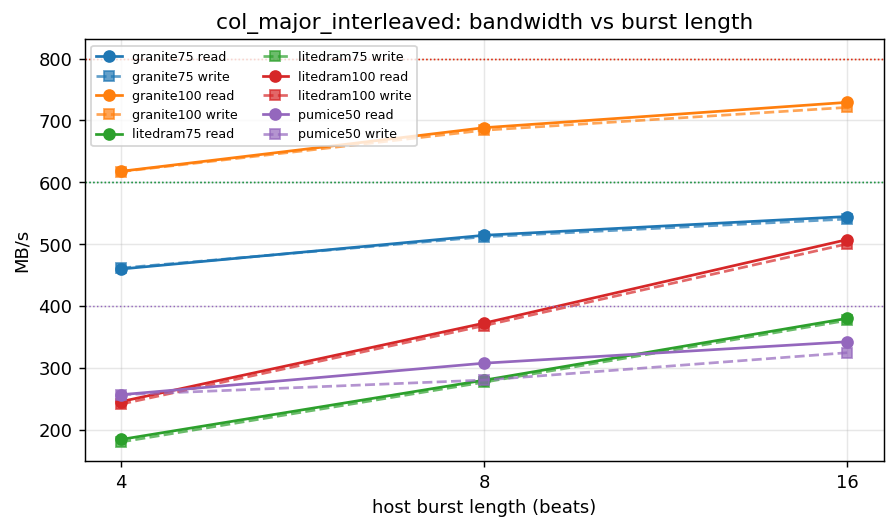
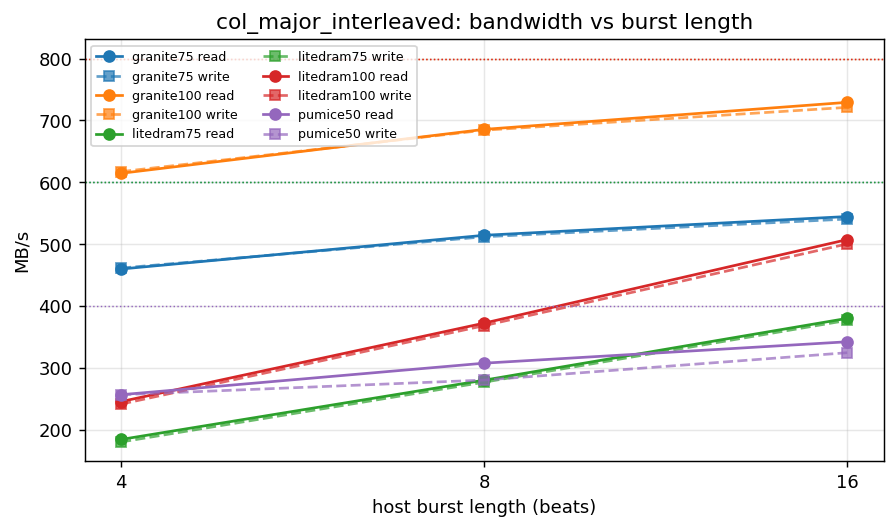
data(granite): 100 MHz board sweep with AR direct placement and the DFI command fall-through; floor 25 -> 23
ard2_100 bitstream (41bb5e07e; AltSpreadLogic_medium + post-route phys_opt,
WNS +0.006 / WHS +0.008 after five directives missed on the pre-existing
stale-pick and pick -> pop paths), every profile: 180 cells, 0 failed, 0
mismatched; floor 25 -> 23 (160 cells exactly -2), loaded means median -1.0,
bandwidth +0.03 / +0.17 percent mean, open-page half_pair reads +6 percent,
LiteDRAM tally 42 / 18 / 0 unchanged.

Sweep report: summary latency table on ard2_100, the stage table across the
three builds, and the mechanism behind the two bimodal cells (the refresh
phase picks the write/read run length; watermark 4/2 held the good state on
8 of 8 board runs where 2/1 lost it on 4 of 8). Graphs regenerated with
granite100 = ard2_100. TASK-003 log entry.

diff --git a/projects/fpga-systems/NexysA7/mem-ctrl-ip-ddr2/ddr2-characterization/char_results/sweep_granite_vs_litedram_2026-10-29.md b/projects/fpga-systems/NexysA7/mem-ctrl-ip-ddr2/ddr2-characterization/char_results/sweep_granite_vs_litedram_2026-10-29.md
@@ -14,7 +14,7 @@ idle gap: one bank or one stream at a time, where the DRAM's own timing or
 the gap sets the ceiling for both. Incremental is a narrow win (2-3
 percent). The large wins are the patterns that need more than one bank
 busy at a time. LiteDRAM is about 3.5x smaller and has the
-lower unloaded read latency (18 cycles against 25).
+lower unloaded read latency (18 cycles against 23).
 
 | cell (write / read MB/s) | granite 100 | LiteDRAM 100 | granite 75 | LiteDRAM 75 | pumice 50 |
 |---|---|---|---|---|---|
@@ -30,7 +30,7 @@ lower unloaded read latency (18 cycles against 25).
 | concurrent 1 writer + 1 reader, incremental | 368 / 368 | 167 / 167 | 285 / 285 | 124 / 124 | 185 / 185 |
 
 Sources: granite 100 = `hx100` 2026-10-31, power-on (`defaults`; the
-`byp100` rebuild the same evening reads the same on every cell above); LiteDRAM
+`byp100` and `ard2_100` rebuilds the same evening read the same on every cell above); LiteDRAM
 100 = `hx100` 2026-10-31; granite 75 = `sweep75` 2026-10-29 `open_page`
 (the design as of that day: before the hybrid, fast read release and the
 drain-arm fix); LiteDRAM 75 = `sweep75` 2026-10-29; pumice 50 = `sweep`
@@ -42,19 +42,20 @@ lose, the six losses all `col_major`. That design has not been re-swept at 75.
 
 | cell | granite mean / min / max | LiteDRAM mean / min / max |
 |---|---|---|
-| half_pair, 1 thread (unloaded) | 29.7 / 25 / 51 | 18.7 / 18 / 48 |
-| half_pair, 8 threads | 41.9 / 27 / 70 | 26.8 / 21 / 62 |
-| incremental, 8-beat | 46.6 / 25 / 74 | 33.9 / 32 / 62 |
-| col_major_interleaved, 8-beat | 51.0 / 25 / 76 | 64.5 / 22 / 87 |
-| random window, 4 threads | 52.4 / 25 / 85 | 61.4 / 22 / 91 |
+| half_pair, 1 thread (unloaded) | 29.5 / 23 / 44 | 18.7 / 18 / 48 |
+| half_pair, 8 threads | 40.7 / 25 / 69 | 26.8 / 21 / 62 |
+| incremental, 8-beat | 45.6 / 23 / 73 | 33.9 / 32 / 62 |
+| col_major_interleaved, 8-beat | 50.2 / 23 / 77 | 64.5 / 22 / 87 |
+| random window, 4 threads | 51.4 / 23 / 84 | 61.4 / 22 / 91 |
 
-granite = `byp100` (store head bypass and return fall-through, 4f0603044):
-the floor came down 27 -> 25 on every pattern. The random window's sweep
-run read a minimum of 41; two reruns read 25. Only a read that finds the
-controller idle sees the floor, so the loaded means barely move (median
--0.4 cycles over 183 cells; half_pair 8 threads 44.9 -> 41.9).
+granite = `ard2_100` (41bb5e07e: on top of the store head bypass and the
+return fall-through, the store's AR direct placement and the DFI command
+fall-through): the floor came down 27 -> 25 -> 23 over the two rebuilds.
+Only a read that finds the controller idle sees the floor, so the loaded
+means move about a cycle (median -1.0 over 180 cells against `byp100`;
+half_pair 8 threads 44.9 -> 41.9 -> 40.7).
 
-granite's floor is 7 cycles above LiteDRAM's (9 before the bypasses). Its mean is higher on the
+granite's floor is 5 cycles above LiteDRAM's (9 before the four cuts). Its mean is higher on the
 sequential patterns too (46.6 against 33.9 on incremental, at the same
 bandwidth). At 8 threads it is higher while it moves 4x the data. It is lower
 where the pattern needs bank parallelism. The mixed window has no latency figure, because that measurement never
@@ -85,7 +86,7 @@ characterization engines, the UART bridge or the debug RAMs):
   - Of the core's block RAMs, 9 are the CPU's, 8 the BIOS ROM and 2 its SRAM. That leaves 3 RAMB36 at most for the controller and the glue.
 - **pumice:** the checkpoint predates fast read release (the RTL default since 2026-10-31).
 
-**Open items** (TASK-003 log): granite's 7-cycle unloaded latency gap
+**Open items** (TASK-003 log): granite's 5-cycle unloaded latency gap
 (where it goes: the section "Where the read floor goes" below); a pumice rebuild and sweep to
 confirm fast read release and give pumice exact latency; latency for the
 mixed window.
@@ -93,6 +94,67 @@ mixed window.
 ---
 
 # Appendix: the running log
+
+## Two more cycles: AR direct placement and the DFI command fall-through (2026-10-31, night)
+
+Two more granite-only parameters, both on by default (41bb5e07e):
+
+- the store's `AR_DIRECT`: an AR that finds the hold register empty is placed straight into its bank queue instead of waiting a cycle in the hold. That is the "push -> visible" row, 3 -> 2.
+- the DFI plane's `CMD_FALLTHRU` (same-clock form of `mc_dfi_cdc` only): a command that finds the command FIFO empty skips it. That is the "command -> RD at the pins" row, 4 -> 3.
+
+Sim: AR -> first R 16 -> 14 cycles on the char proxy, lone-read bandwidth
+166.7 -> 179.5 MB/s; proxy families 0 mismatches, 0 timing violations.
+
+Timing at 100 MHz was the hard part. Five placement directives missed by
+-0.144 to -0.393 ns, every time on paths that were already marginal and that
+the change does not touch (the scheduler's stale-pick logic in
+`mc_bank_pick`, and the pick -> store pop). AltSpreadLogic_medium plus a
+post-route `phys_opt_design` (AggressiveFanoutOpt, then
+AlternateFlowWithRetiming) closed it: `ddr2_char_granite_100mhz_ard2_2026-10-31.bit`,
+WNS +0.006 / WHS +0.008. The next added gate on those paths will likely need a
+pipeline stage in the stale pick rather than a luckier placement.
+
+Board, every profile, `char_granite_ard2_100_<profile>_2026-10-31.csv`:
+180 cells, 0 failed, 0 mismatched. Against `byp100`:
+
+- **Floor 25 -> 23.** 160 of 180 cells drop exactly 2 cycles in their minimum. The other 20 are cells whose minimum is a rare event (the one read that found the controller idle), and they move either way.
+- **Mean latency** -1.0 cycle median.
+- **Bandwidth.** Write +0.03 percent mean and read +0.17 percent mean. No cell is worse than -1.3 percent.
+- **Open-page half_pair reads.** These rise 6 percent (367 -> 390 MB/s), now level with power-on. A lone reader is latency-bound, and two cycles off each read shows directly.
+- **`half_pair_gap2`, open page:** the bandwidth is the same, and the mean latency rose 68 -> 80. At gap 2 the reads queue behind the writes, so that mean measures the queue and not the controller's floor.
+- **LiteDRAM tally.** 42 win / 18 tie / 0 lose, the same as before.
+
+| stage | first build | `byp100` | `ard2_100` |
+|---|---|---|---|
+| AXI plane: AR -> pushed into the bank queue store | 2 | 2 | 2 |
+| store: push -> visible to the scheduler's pick | 4 | 3 | 2 |
+| pick + fire, command -> RD at the DFI pins | 4 | 4 | 3 |
+| harness `cmd_delay` + `t_rddata_en` (board only) | 2 | 2 | 2 |
+| PHY: read enable -> data valid (shared with LiteDRAM) | 8 | 8 | 8 |
+| return -> R | 2 | 1 | 1 |
+| measured board floor (rd_lat_min) | 27 | 25 | 23 |
+
+## What selects the two mixed-window and multigen states (2026-10-31, night)
+
+The two cells that land in one of two values from run to run (the mixed
+window, 202.4 or 196.7, and multigen power-on col_major_interleaved, 261.9 or
+245.8) are one mechanism: the **refresh phase** sets how finely the
+scheduler alternates write and read runs once both queues are busy.
+
+- **Sim.** On the char proxy, sweeping tREFI 760-780 in steps of 2 moves the mixed window between states. The DRAM command trace at tREFI 772 (bad) against 774 (normal):
+  - bad: runs of 8 commands, 2,043 direction switches, 3,128 ACTs, 140.8 MB/s;
+  - normal: runs of 16, 1,037 switches, 2,111 ACTs, 197 MB/s.
+
+  The refresh phase alone picks the run length, and the state then persists for the whole window: twice the direction switches and half again the ACTs. Nothing else differs between the two runs.
+- **The fix in sim.** A write watermark of 4/2 (8/4 and 4/0 behave the same) removes the bad state at every phase tried. It is never worse than 2/1, and at tREFI 780 it is better (204.7 against 196.8).
+- **Board**, `byp100` bitstream, four alternating runs each:
+
+| cell (read MB/s) | watermark 2/1 (power-on) | watermark 4/2 |
+|---|---|---|
+| mixed window | 202.5, 202.5, 196.7, 202.5 | 202.5 x4 |
+| multigen col_major_interleaved | 245.8, 245.8, 245.8, 261.9 | 261.9 x4 |
+
+  A single A/B pass of windows, concurrent, half_gap and multigen at 4/2 moved nothing else by more than 0.9 percent.
 
 ## Where the read floor goes, and two cycles off it (2026-10-31, evening)
 
@@ -335,7 +397,7 @@ Rendered by `build-perf/bin/plot_sweep.py` from the CSVs beside this file,
 in the STREAM characterization style: a line family where the knee has to
 be legible, grouped bars for the side by side, an annotated heatmap for the
 envelope. Each series' peak is the dotted line in its colour.
-Since 2026-10-31 `granite100` is the update at the top (power-on hybrid, tRTP 1, fast read release, the ring bypass and the drain-arm fix; since the evening also the store head bypass and return fall-through: `byp100`) and `litedram100` the same-day LiteDRAM rerun with the exact latency statistics (`hx100`); the other series are unchanged.
+Since 2026-10-31 `granite100` is the update at the top (power-on hybrid, tRTP 1, fast read release, the ring bypass and the drain-arm fix; since the evening also the store head bypass and return fall-through, and at night AR direct placement and the DFI command fall-through: `ard2_100`) and `litedram100` the same-day LiteDRAM rerun with the exact latency statistics (`hx100`); the other series are unchanged.
 
 ![half_pair bandwidth against injector threads](plots/threads_knee_pair.png)
 

diff --git a/vault/tracking/projects/components/mem-ctrl-ip/product-ip/granite-ddr2-lpddr2/task/active/TASK-003.md b/vault/tracking/projects/components/mem-ctrl-ip/product-ip/granite-ddr2-lpddr2/task/active/TASK-003.md
@@ -1440,3 +1440,33 @@ lands in a 196.7 state one run in three on byp100 (never on hx100, every
 time under the 1-cycle runtime knobs). Open: what selects those states.
 Remaining gap to LiteDRAM's floor: 7 cycles (AXI plane 2, push -> pick 3,
 DFI plane 2 are the next candidates; the planes are shared with pumice).
+
+### 2026-10-31 (late night): two more cycles, and what selects the bimodal cells
+
+41bb5e07e: `mc_bank_fifo_store` AR_DIRECT (an AR finding the hold empty is
+placed directly; push-ready from the hold fire only) and `mc_dfi_cdc`
+CMD_FALLTHRU (same-clock form: an empty command FIFO is skipped), plumbed
+through `mc_dfi_2p1_plane`; granite sets both, every other user keeps 0.
+Sim: AR -> R 16 -> 14, lone-read bandwidth 166.7 -> 179.5; proxy families
+clean; gates common-ip 57 / 3 xfailed, granite 18 / 1, pumice 218.
+
+Timing: five placement directives missed (-0.144 .. -0.393 ns), every time on
+the pre-existing marginal paths (`mc_bank_pick` stale pick, pick -> store
+pop), not the new logic. AltSpreadLogic_medium + post-route phys_opt
+(AggressiveFanoutOpt, AlternateFlowWithRetiming) closed: WNS +0.006 / WHS
++0.008, `ddr2_char_granite_100mhz_ard2_2026-10-31.bit`. The next gate on
+those paths wants a pipeline stage in the stale pick.
+
+Board, every profile, `char_granite_ard2_100_*`: 180 cells clean, floor
+25 -> 23 (160 cells exactly -2), means median -1.0, bandwidth +0.03 / +0.17
+percent mean (worst cell -1.3), open-page half_pair reads +6 percent,
+LiteDRAM tally 42 / 18 / 0. Remaining floor gap to LiteDRAM: 5 cycles.
+
+The bimodal cells (mixed window 202.4 / 196.7, multigen power-on
+col_major_interleaved 261.9 / 245.8): the refresh phase selects the
+write/read run length in sim (tREFI 772: runs of 8, 2043 switches, 3128
+ACTs, 140.8 MB/s; 774: runs of 16, 1037, 2111, 197). Write watermark 4/2
+(also 8/4, 4/0) removes the bad state at every phase tried, never worse.
+Board, `byp100`, four alternating runs: 2/1 hit the bad mixed state 1 / 4 and
+the bad multigen state 3 / 4; 4/2 hit neither, 0 / 8. Full every-profile
+sweep at 4/2 on `ard2_100` queued to decide the default.
